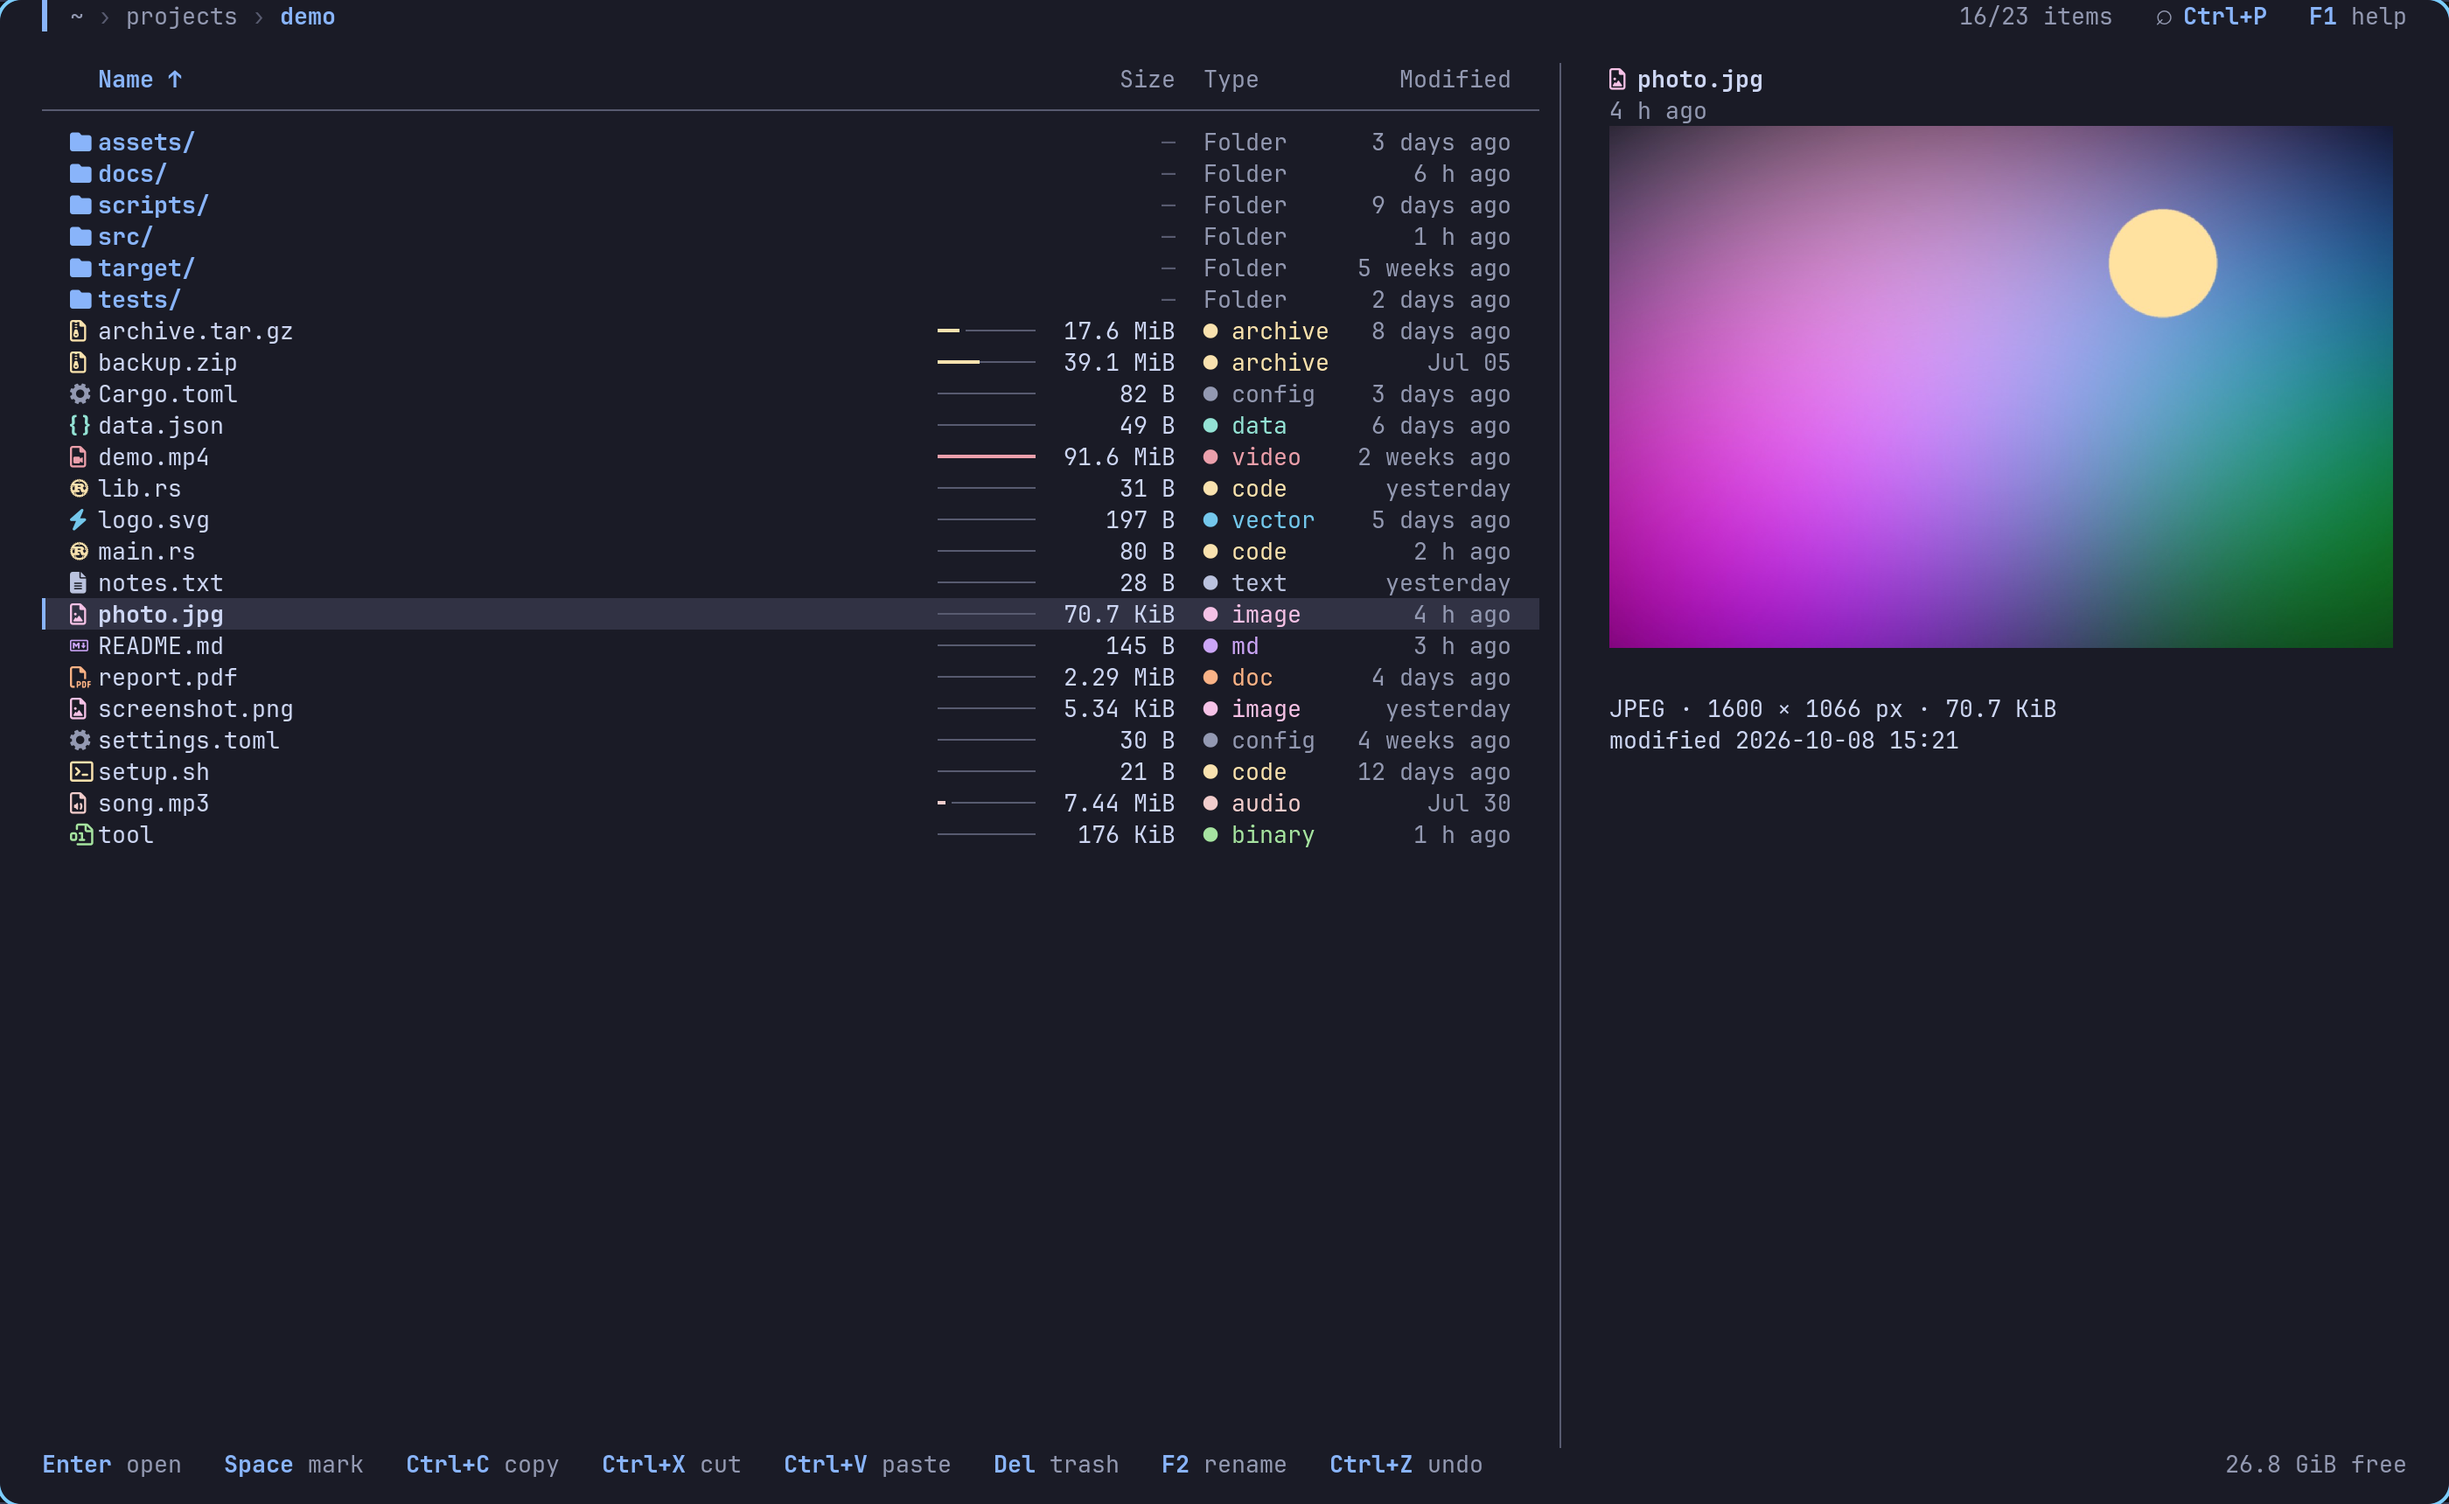
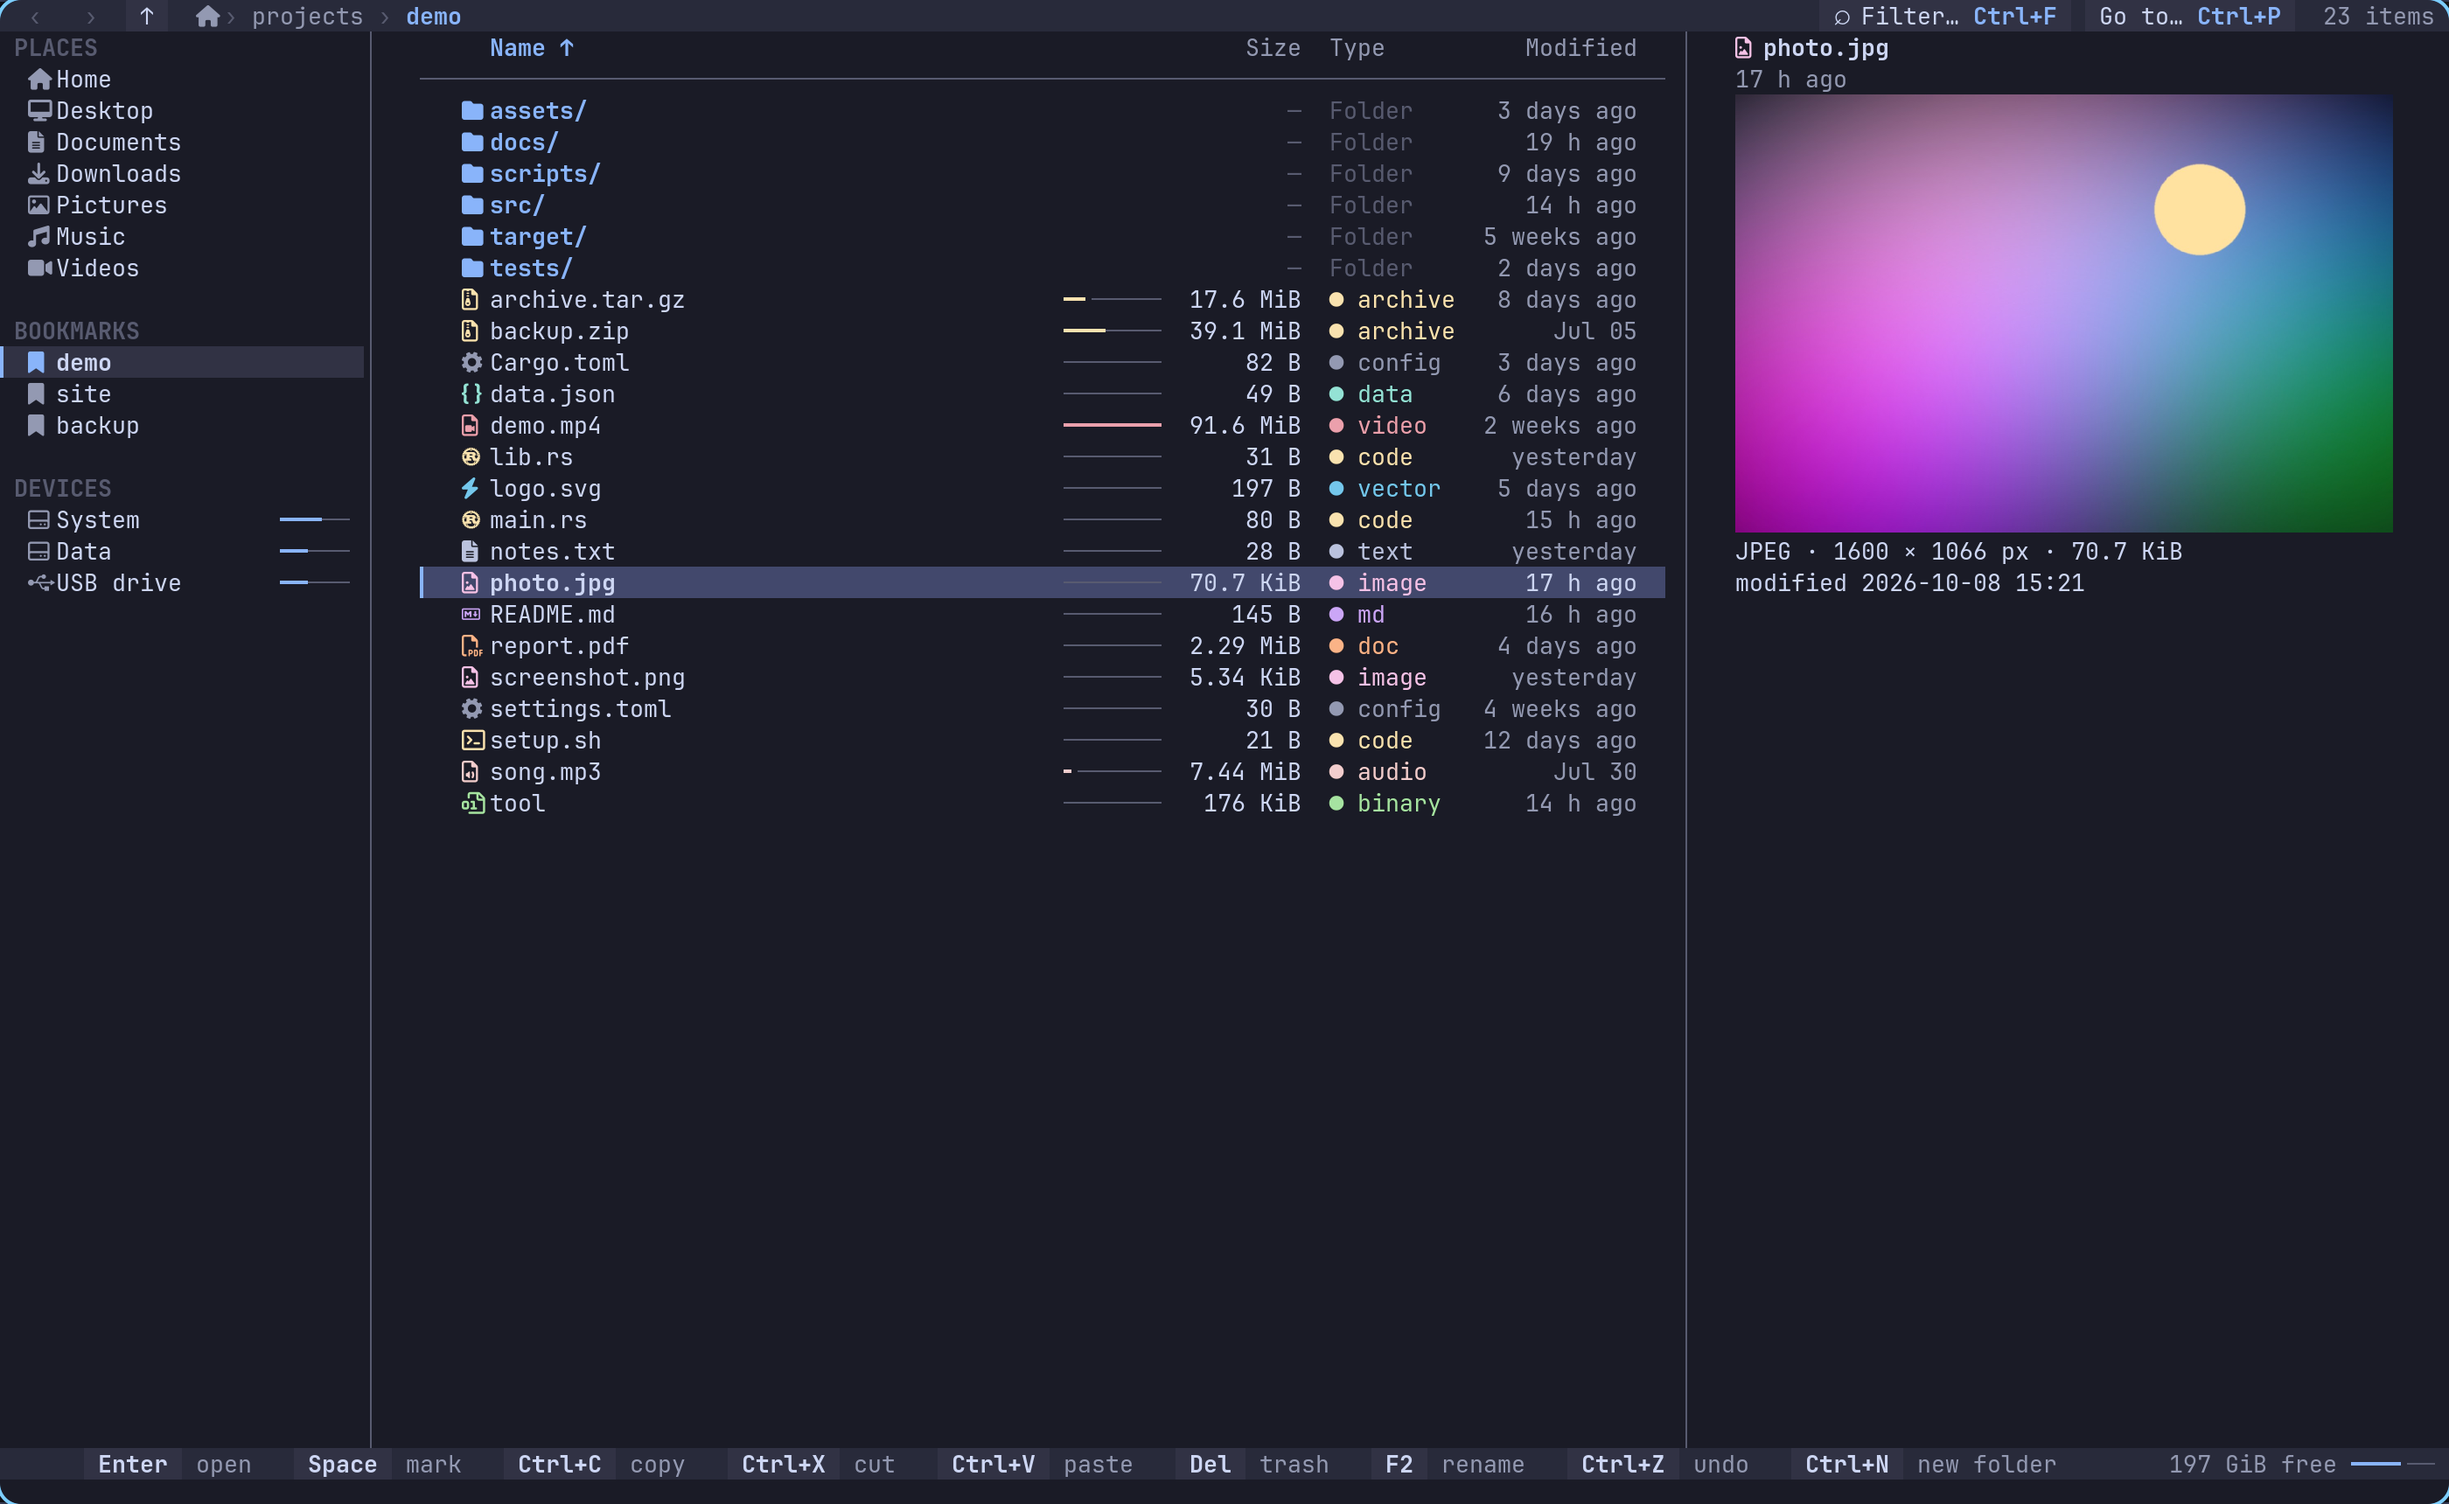
docs: new screenshots (bars, sidebar, light theme, narrow terminal) from a neutral home with made-up disks; demo scenes for them

diff --git a/crates/tui/src/app.rs b/crates/tui/src/app.rs
@@ -287,6 +287,35 @@ pub struct Adaptive {
     pub depth: crate::theme::ColorDepth,
 }
 
+/// Disks that do not exist, for screenshots that must not show the machine's own.
+fn demo_volumes() -> Vec<Volume> {
+    use rada_core::platform::VolumeKind;
+    let gb = 1_000_000_000u64;
+    let vol = |mount: &str, label: &str, kind, total: u64, free: u64| Volume {
+        mount_point: PathBuf::from(mount),
+        label: Some(label.into()),
+        fs_type: "ext4".into(),
+        device: "demo".into(),
+        kind,
+        drive_letter: None,
+        total: Some(total * gb),
+        available: Some(free * gb),
+        read_only: false,
+        responsive: true,
+    };
+    vec![
+        vol("/", "System", VolumeKind::Fixed, 512, 212),
+        vol("/run/media/user/Data", "Data", VolumeKind::Fixed, 1000, 640),
+        vol(
+            "/run/media/user/USB",
+            "USB drive",
+            VolumeKind::Removable,
+            64,
+            41,
+        ),
+    ]
+}
+
 /// Developer hook: put the interface in a ready-made state (for screenshots).
 pub struct Demo {
     pub scene: String,
@@ -329,6 +358,8 @@ pub struct App {
     pub paths: rada_core::places::PathLists,
     cfg_bookmarks: Vec<PathBuf>,
     demo: Option<Demo>,
+    /// Developer hook: show made-up disks instead of the machine's own (screenshots).
+    demo_volumes: bool,
     demo_auto_run: bool,
     pub clipboard: Option<Clip>,
     pub modal: Option<Modal>,
@@ -404,6 +435,7 @@ impl App {
             volumes: Vec::new(),
             paths: Default::default(),
             cfg_bookmarks: cfg.bookmarks,
+            demo_volumes: cfg.demo.is_some(),
             demo: cfg.demo,
             demo_auto_run: false,
             clipboard: None,
@@ -692,7 +724,7 @@ impl App {
             CoreEvent::Watch(w) => self.on_watch(w),
             CoreEvent::Preview(p) => self.on_preview(p),
             CoreEvent::Volumes(v) => {
-                self.volumes = v;
+                self.volumes = if self.demo_volumes { demo_volumes() } else { v };
                 self.refresh_palette();
             }
             CoreEvent::Paths(p) => {
@@ -1510,6 +1542,27 @@ impl App {
                 }));
                 self.svc.jobs.load_history();
             }
+            // A selection and something on the clipboard, to show the bottom bar at work.
+            "selection" => {
+                let files: Vec<_> = self
+                    .listing
+                    .all()
+                    .iter()
+                    .filter(|e| !e.is_dir())
+                    .map(|e| (e.name.clone(), e.path.clone()))
+                    .collect();
+                self.marked = files.iter().take(3).map(|(n, _)| n.clone()).collect();
+                self.clipboard = Some(Clip {
+                    mode: TransferMode::Copy,
+                    paths: files
+                        .iter()
+                        .skip(3)
+                        .take(2)
+                        .map(|(_, p)| p.clone())
+                        .collect(),
+                });
+            }
+            "main" => {}
             "help" => self.modal = Some(Modal::Help),
             "menu" => self.modal = Some(Modal::Menu(self.context_menu(true, (30, 11)))),
             _ => {}

diff --git a/README.md b/README.md
@@ -124,6 +124,8 @@ On the right of the bar: the **filter** field (`⌕ Filter…`, click it, or pre
 
 The mouse's own back and forward buttons are not used: the terminal library rada is built on does not report them. Use the buttons in the bar or `Alt+←` / `Alt+→`.
 
+![The top bar with its buttons, path, filter and Go to; the bottom bar with the selection, the clipboard, the keys that fit and the free space](docs/screenshots/bars.png)
+
 ## Sidebar
 
 On the left: your **places**, your **bookmarks** and your **disks**.
@@ -135,6 +137,8 @@ On the left: your **places**, your **bookmarks** and your **disks**.
 The place you are in is highlighted. Click an item to open it. **`Tab`** moves the keyboard into the sidebar (the focused item is drawn with the cursor colour); `↑` `↓` move, `Enter` opens and returns to the list, `Tab` or `Esc` returns to the list without opening. While the sidebar has the focus, file operations are refused rather than done to an item you cannot see.
 
 **`Ctrl+B`** shows or hides the sidebar and remembers it (`sidebar = false` in the config file sets the default). It is 26 columns wide from a terminal width of 124; from 100 to 123 columns it becomes a **column of icons** with the places only (bookmarks and disks stay reachable with `Ctrl+P`): hover an icon, or move onto it with the keyboard, and its name shows in the bottom bar. Below 100 columns it is not shown at all, so it always gives way before the preview does. A section with nothing in it does not appear.
+
+![The sidebar as a column of icons on a narrow terminal](docs/screenshots/sidebar-narrow.png)
 
 ## Themes
 
